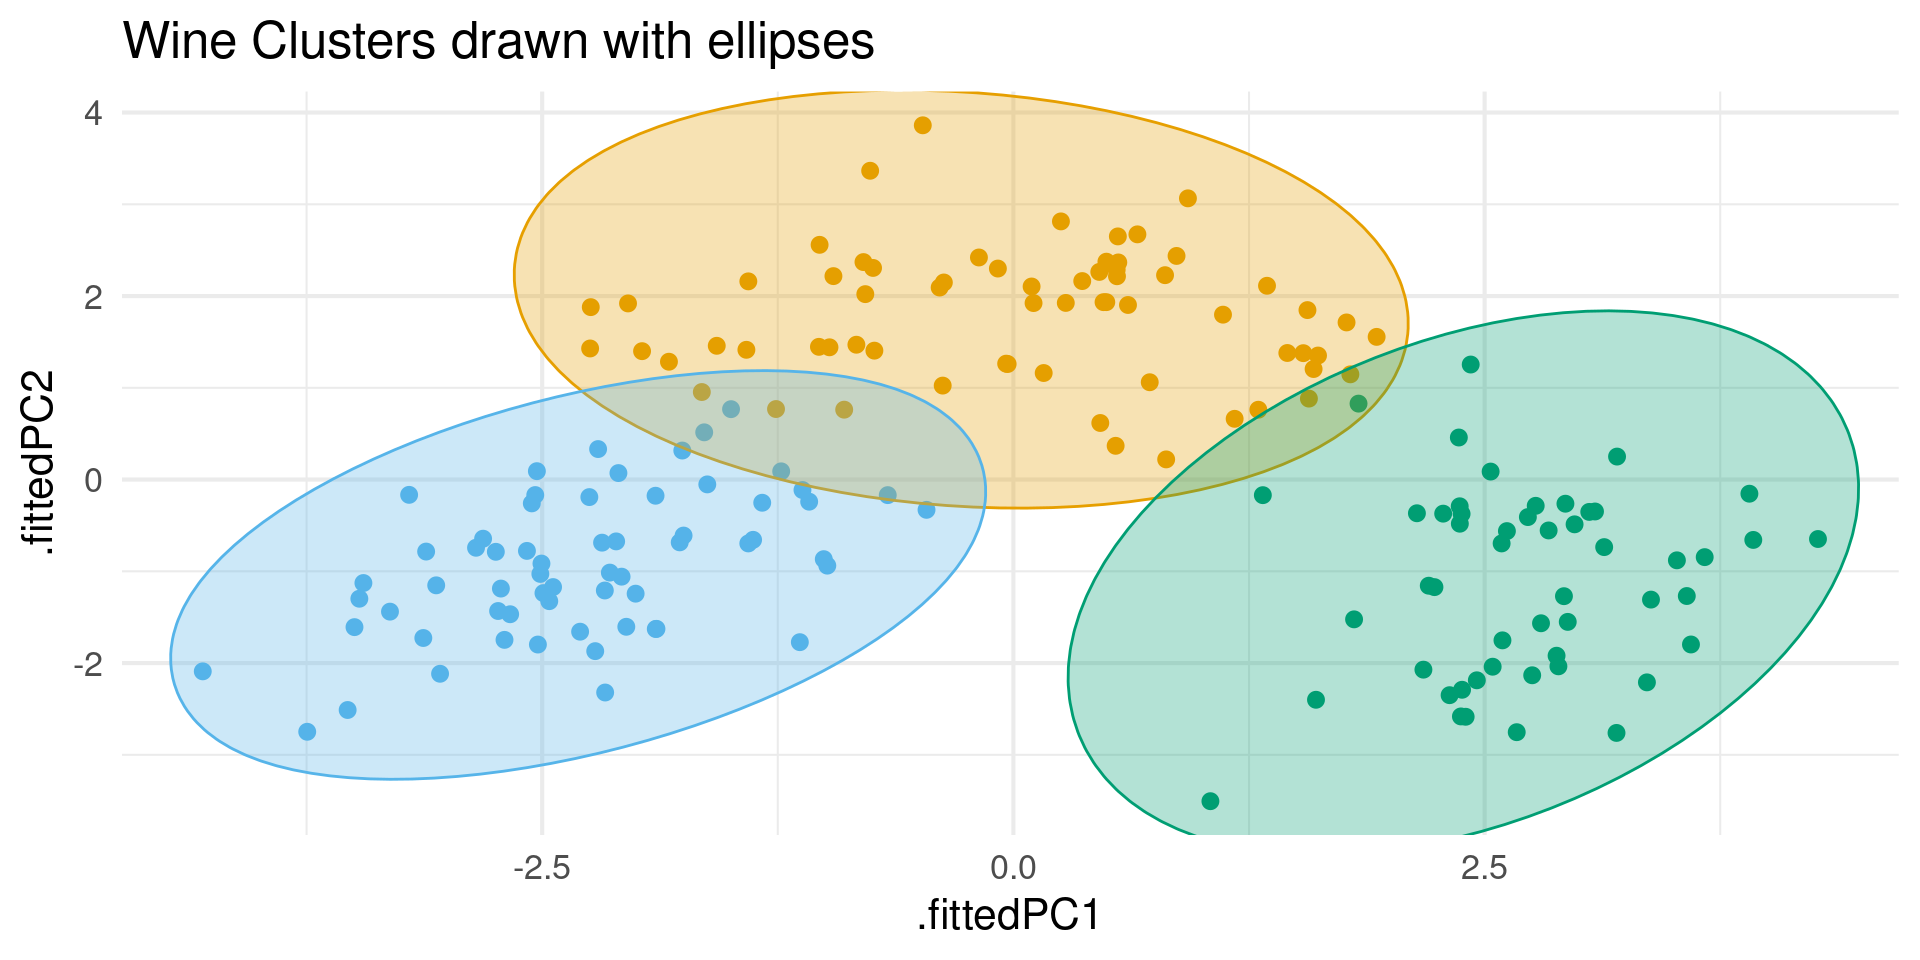
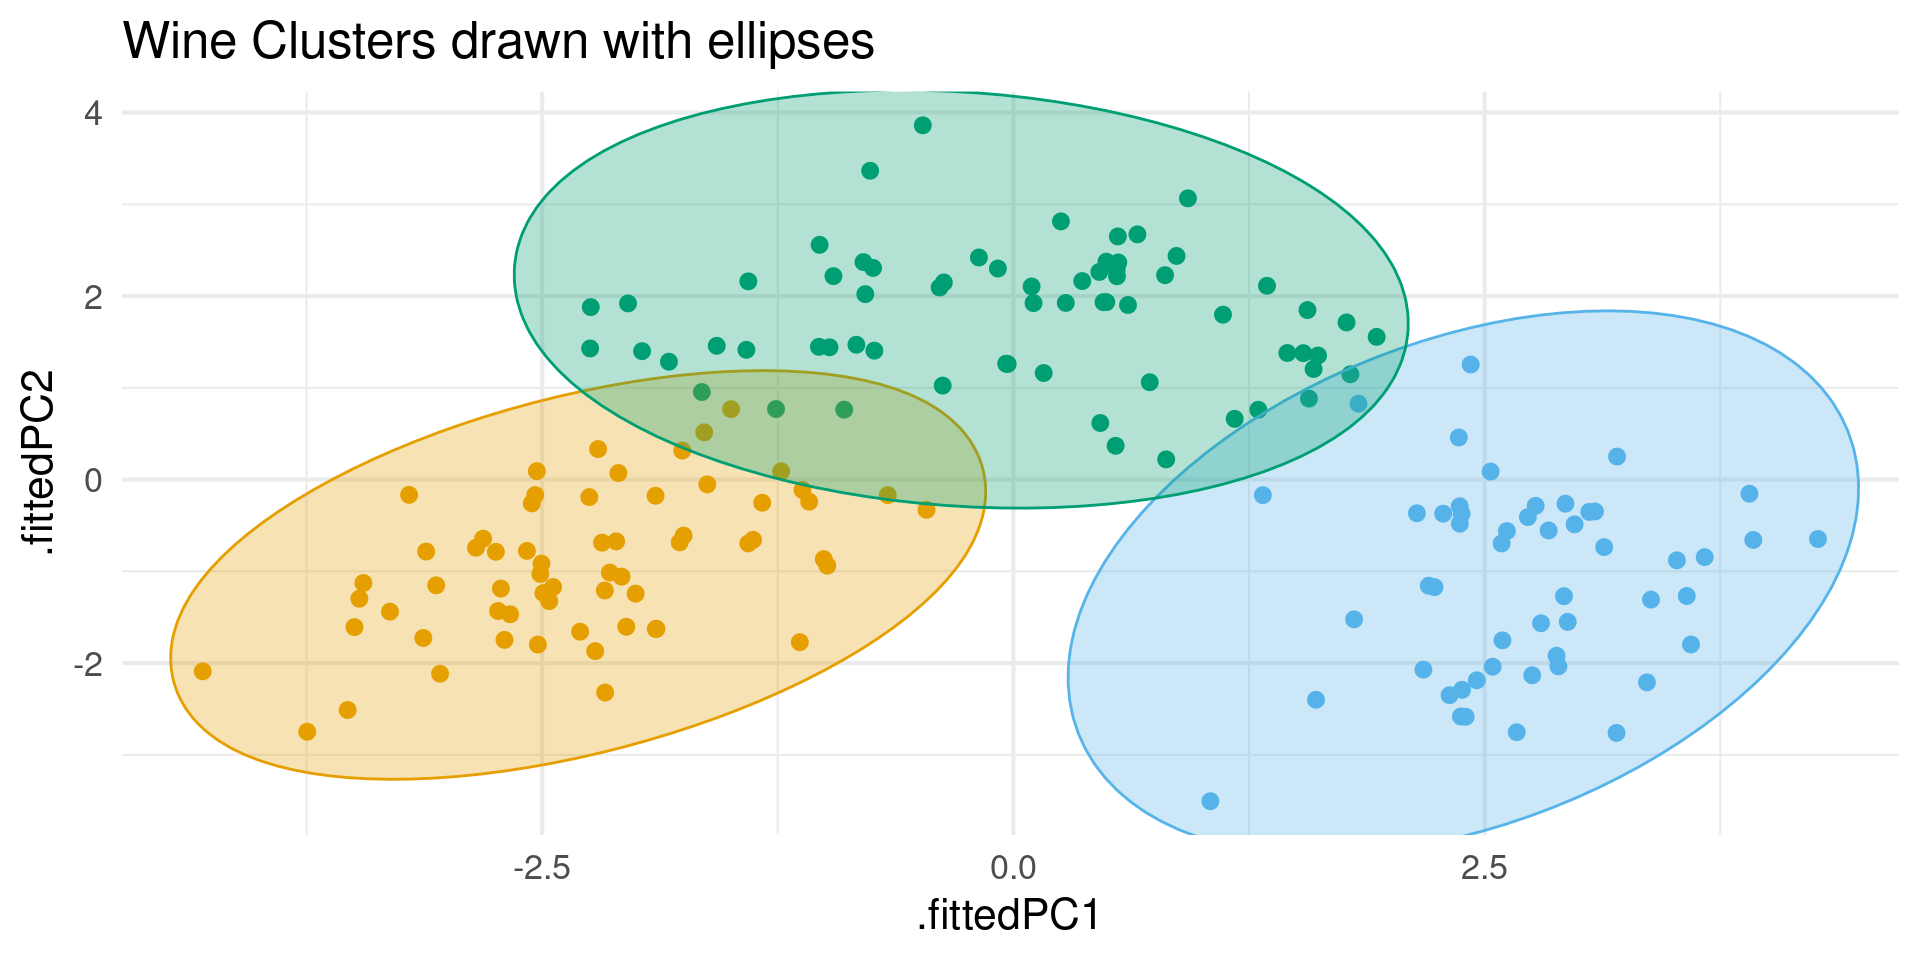
Built site for gh-pages

diff --git a/meetups/meetup-11/meetup-11.html b/meetups/meetup-11/meetup-11.html
@@ -411,15 +411,19 @@ George I. Hagstrom
 <li>Last Data Story will be on Shiny Apps</li>
 <li>Talking about clustering today</li>
 </ul>
-<!-- TODO Fall 2026: Spring 2025 event announcement - swap in a current
-     event card before the meetup.
-
-## NY Open Statistical Computing Meetup {.stretch}
-
-
-  ![](April_2025_Meetup_Card.png)
--->
 </section>
+<section id="tomorrow-ny-open-statistical-programming-meetup" class="slide level2">
+<h2>Tomorrow! NY Open Statistical Programming Meetup</h2>
+<ul>
+<li>Tuesday, November 10th, 6:30-8:30+</li>
+<li>Great Networking/Learning Opportunity</li>
+</ul>
+
+<img data-src="November_2026_Meetup_Card.png" class="r-stretch"></section>
+<section id="november-19th" class="slide level2">
+<h2>November 19th!</h2>
+
+<img data-src="Nov2026Seminar.png" class="r-stretch"></section>
 <section id="clustering-and-dim.-reduction" class="slide level2 smaller">
 <h2>Clustering and Dim. Reduction</h2>
 <ul>
@@ -661,31 +665,31 @@ George I. Hagstrom
 <span id="cb1-5"><a></a></span>
 <span id="cb1-6"><a></a>wine_clusters</span></code><button title="Copy to Clipboard" class="code-copy-button"><i class="bi"></i></button></pre></div>
 <div class="cell-output cell-output-stdout">
-<pre><code>K-means clustering with 3 clusters of sizes 62, 65, 51
+<pre><code>K-means clustering with 3 clusters of sizes 51, 62, 65
 
 Cluster means:
    .fittedPC1 .fittedPC2   .fittedPC3  .fittedPC4  .fittedPC5  .fittedPC6
-1 -2.26979079 -0.9294322  0.001523733 -0.13511700  0.13453261 -0.21766922
-2  0.03685265  1.7672542  0.185615130  0.08001400 -0.07067870  0.12944063
-3  2.71238444 -1.1224849 -0.238420685  0.06228125 -0.07346875  0.09964414
+1  2.71238444 -1.1224849 -0.238420685  0.06228125 -0.07346875  0.09964414
+2 -2.26979079 -0.9294322  0.001523733 -0.13511700  0.13453261 -0.21766922
+3  0.03685265  1.7672542  0.185615130  0.08001400 -0.07067870  0.12944063
     .fittedPC7   .fittedPC8  .fittedPC9 .fittedPC10  .fittedPC11  .fittedPC12
-1  0.051963343  0.024894027  0.05014407 -0.07446923 -0.021230820 -0.007417378
-2 -0.002320739 -0.017964647 -0.03216049  0.02293882  0.013900922  0.004371673
-3 -0.060213318 -0.007367207 -0.01997059  0.06129547  0.008093155  0.003445464
+1 -0.060213318 -0.007367207 -0.01997059  0.06129547  0.008093155  0.003445464
+2  0.051963343  0.024894027  0.05014407 -0.07446923 -0.021230820 -0.007417378
+3 -0.002320739 -0.017964647 -0.03216049  0.02293882  0.013900922  0.004371673
    .fittedPC13
-1 -0.050476861
-2  0.008595707
-3  0.050408713
+1  0.050408713
+2 -0.050476861
+3  0.008595707
 
 Clustering vector:
-  [1] 1 1 1 1 1 1 1 1 1 1 1 1 1 1 1 1 1 1 1 1 1 1 1 1 1 1 1 1 1 1 1 1 1 1 1 1 1
- [38] 1 1 1 1 1 1 1 1 1 1 1 1 1 1 1 1 1 1 1 1 1 1 2 2 3 2 2 2 2 2 2 2 2 2 2 2 1
- [75] 2 2 2 2 2 2 2 2 2 3 2 2 2 2 2 2 2 2 2 2 2 1 2 2 2 2 2 2 2 2 2 2 2 2 2 2 2
-[112] 2 2 2 2 2 2 2 3 2 2 1 2 2 2 2 2 2 2 2 3 3 3 3 3 3 3 3 3 3 3 3 3 3 3 3 3 3
-[149] 3 3 3 3 3 3 3 3 3 3 3 3 3 3 3 3 3 3 3 3 3 3 3 3 3 3 3 3 3 3
+  [1] 2 2 2 2 2 2 2 2 2 2 2 2 2 2 2 2 2 2 2 2 2 2 2 2 2 2 2 2 2 2 2 2 2 2 2 2 2
+ [38] 2 2 2 2 2 2 2 2 2 2 2 2 2 2 2 2 2 2 2 2 2 2 3 3 1 3 3 3 3 3 3 3 3 3 3 3 2
+ [75] 3 3 3 3 3 3 3 3 3 1 3 3 3 3 3 3 3 3 3 3 3 2 3 3 3 3 3 3 3 3 3 3 3 3 3 3 3
+[112] 3 3 3 3 3 3 3 1 3 3 2 3 3 3 3 3 3 3 3 1 1 1 1 1 1 1 1 1 1 1 1 1 1 1 1 1 1
+[149] 1 1 1 1 1 1 1 1 1 1 1 1 1 1 1 1 1 1 1 1 1 1 1 1 1 1 1 1 1 1
 
 Within cluster sum of squares by cluster:
-[1] 385.6983 558.6971 326.3537
+[1] 326.3537 385.6983 558.6971
  (between_SS / total_SS =  44.8 %)
 
 Available components:
@@ -712,11 +716,11 @@ Available components:
 <div class="cell">
 <div class="sourceCode cell-code" id="cb3"><pre class="sourceCode numberSource r number-lines code-with-copy"><code class="sourceCode r"><span id="cb3-1"><a></a>wine_clusters<span class="sc">$</span>cluster </span></code><button title="Copy to Clipboard" class="code-copy-button"><i class="bi"></i></button></pre></div>
 <div class="cell-output cell-output-stdout">
-<pre><code>  [1] 1 1 1 1 1 1 1 1 1 1 1 1 1 1 1 1 1 1 1 1 1 1 1 1 1 1 1 1 1 1 1 1 1 1 1 1 1
- [38] 1 1 1 1 1 1 1 1 1 1 1 1 1 1 1 1 1 1 1 1 1 1 2 2 3 2 2 2 2 2 2 2 2 2 2 2 1
- [75] 2 2 2 2 2 2 2 2 2 3 2 2 2 2 2 2 2 2 2 2 2 1 2 2 2 2 2 2 2 2 2 2 2 2 2 2 2
-[112] 2 2 2 2 2 2 2 3 2 2 1 2 2 2 2 2 2 2 2 3 3 3 3 3 3 3 3 3 3 3 3 3 3 3 3 3 3
-[149] 3 3 3 3 3 3 3 3 3 3 3 3 3 3 3 3 3 3 3 3 3 3 3 3 3 3 3 3 3 3</code></pre>
+<pre><code>  [1] 2 2 2 2 2 2 2 2 2 2 2 2 2 2 2 2 2 2 2 2 2 2 2 2 2 2 2 2 2 2 2 2 2 2 2 2 2
+ [38] 2 2 2 2 2 2 2 2 2 2 2 2 2 2 2 2 2 2 2 2 2 2 3 3 1 3 3 3 3 3 3 3 3 3 3 3 2
+ [75] 3 3 3 3 3 3 3 3 3 1 3 3 3 3 3 3 3 3 3 3 3 2 3 3 3 3 3 3 3 3 3 3 3 3 3 3 3
+[112] 3 3 3 3 3 3 3 1 3 3 2 3 3 3 3 3 3 3 3 1 1 1 1 1 1 1 1 1 1 1 1 1 1 1 1 1 1
+[149] 1 1 1 1 1 1 1 1 1 1 1 1 1 1 1 1 1 1 1 1 1 1 1 1 1 1 1 1 1 1</code></pre>
 </div>
 </div>
 </section>
@@ -729,17 +733,17 @@ Available components:
 <div class="sourceCode cell-code" id="cb5"><pre class="sourceCode numberSource r number-lines code-with-copy"><code class="sourceCode r"><span id="cb5-1"><a></a>wine_clusters<span class="sc">$</span>centers</span></code><button title="Copy to Clipboard" class="code-copy-button"><i class="bi"></i></button></pre></div>
 <div class="cell-output cell-output-stdout">
 <pre><code>   .fittedPC1 .fittedPC2   .fittedPC3  .fittedPC4  .fittedPC5  .fittedPC6
-1 -2.26979079 -0.9294322  0.001523733 -0.13511700  0.13453261 -0.21766922
-2  0.03685265  1.7672542  0.185615130  0.08001400 -0.07067870  0.12944063
-3  2.71238444 -1.1224849 -0.238420685  0.06228125 -0.07346875  0.09964414
+1  2.71238444 -1.1224849 -0.238420685  0.06228125 -0.07346875  0.09964414
+2 -2.26979079 -0.9294322  0.001523733 -0.13511700  0.13453261 -0.21766922
+3  0.03685265  1.7672542  0.185615130  0.08001400 -0.07067870  0.12944063
     .fittedPC7   .fittedPC8  .fittedPC9 .fittedPC10  .fittedPC11  .fittedPC12
-1  0.051963343  0.024894027  0.05014407 -0.07446923 -0.021230820 -0.007417378
-2 -0.002320739 -0.017964647 -0.03216049  0.02293882  0.013900922  0.004371673
-3 -0.060213318 -0.007367207 -0.01997059  0.06129547  0.008093155  0.003445464
+1 -0.060213318 -0.007367207 -0.01997059  0.06129547  0.008093155  0.003445464
+2  0.051963343  0.024894027  0.05014407 -0.07446923 -0.021230820 -0.007417378
+3 -0.002320739 -0.017964647 -0.03216049  0.02293882  0.013900922  0.004371673
    .fittedPC13
-1 -0.050476861
-2  0.008595707
-3  0.050408713</code></pre>
+1  0.050408713
+2 -0.050476861
+3  0.008595707</code></pre>
 </div>
 </div>
 </section>
@@ -752,17 +756,17 @@ Available components:
 <div class="sourceCode cell-code" id="cb7"><pre class="sourceCode numberSource r number-lines code-with-copy"><code class="sourceCode r"><span id="cb7-1"><a></a>wine_clusters<span class="sc">$</span>centers</span></code><button title="Copy to Clipboard" class="code-copy-button"><i class="bi"></i></button></pre></div>
 <div class="cell-output cell-output-stdout">
 <pre><code>   .fittedPC1 .fittedPC2   .fittedPC3  .fittedPC4  .fittedPC5  .fittedPC6
-1 -2.26979079 -0.9294322  0.001523733 -0.13511700  0.13453261 -0.21766922
-2  0.03685265  1.7672542  0.185615130  0.08001400 -0.07067870  0.12944063
-3  2.71238444 -1.1224849 -0.238420685  0.06228125 -0.07346875  0.09964414
+1  2.71238444 -1.1224849 -0.238420685  0.06228125 -0.07346875  0.09964414
+2 -2.26979079 -0.9294322  0.001523733 -0.13511700  0.13453261 -0.21766922
+3  0.03685265  1.7672542  0.185615130  0.08001400 -0.07067870  0.12944063
     .fittedPC7   .fittedPC8  .fittedPC9 .fittedPC10  .fittedPC11  .fittedPC12
-1  0.051963343  0.024894027  0.05014407 -0.07446923 -0.021230820 -0.007417378
-2 -0.002320739 -0.017964647 -0.03216049  0.02293882  0.013900922  0.004371673
-3 -0.060213318 -0.007367207 -0.01997059  0.06129547  0.008093155  0.003445464
+1 -0.060213318 -0.007367207 -0.01997059  0.06129547  0.008093155  0.003445464
+2  0.051963343  0.024894027  0.05014407 -0.07446923 -0.021230820 -0.007417378
+3 -0.002320739 -0.017964647 -0.03216049  0.02293882  0.013900922  0.004371673
    .fittedPC13
-1 -0.050476861
-2  0.008595707
-3  0.050408713</code></pre>
+1  0.050408713
+2 -0.050476861
+3  0.008595707</code></pre>
 </div>
 </div>
 </section>
@@ -779,7 +783,7 @@ Available components:
 <div class="cell">
 <div class="sourceCode cell-code" id="cb9"><pre class="sourceCode numberSource r number-lines code-with-copy"><code class="sourceCode r"><span id="cb9-1"><a></a>wine_clusters<span class="sc">$</span>withinss</span></code><button title="Copy to Clipboard" class="code-copy-button"><i class="bi"></i></button></pre></div>
 <div class="cell-output cell-output-stdout">
-<pre><code>[1] 385.6983 558.6971 326.3537</code></pre>
+<pre><code>[1] 326.3537 385.6983 558.6971</code></pre>
 </div>
 <div class="sourceCode cell-code" id="cb11"><pre class="sourceCode numberSource r number-lines code-with-copy"><code class="sourceCode r"><span id="cb11-1"><a></a>wine_clusters<span class="sc">$</span>totss</span></code><button title="Copy to Clipboard" class="code-copy-button"><i class="bi"></i></button></pre></div>
 <div class="cell-output cell-output-stdout">

diff --git a/posts/2026-11-09-Week-11-Clustering.html b/posts/2026-11-09-Week-11-Clustering.html
@@ -365,7 +365,7 @@ ul.task-list li input[type="checkbox"] {
 <p>Hello class and welcome to Week 11!</p>
 <p>This week we will cover clustering, which is an important partner to dimensionality reduction tools like PCA. We will focus on just one method, k-means, and show how to implement in R and use visualizations to interpret the results.</p>
 <p><a href="../assignments/stories/story6.html">Data Story 6</a> is now available. It asks you to do something called a customer segmentation analysis, which is to look at a lot of customer behavior data and try to group the customers into discrete categories based on the sorts of items that they purchase (as well as when and how often they purchase). The data comes from a kaggle competition run by instacart several years ago, though the aim of the competition was more about prediction future customer behavior.&nbsp;</p>
-<p>Data Story 6 will be due the week after spring break ends, Sunday at midnight.</p>
+<p>Data Story 6 will be due Sunday, November 22nd at midnight.</p>
 <p>Check out <a href="../modules/module11.html">module 11</a> for the reading assignments and other details.</p>
 <p>Thanks,</p>
 <p>Sincerely,<br>

diff --git a/index.html b/index.html
@@ -407,7 +407,7 @@ window.Quarto = {
 
 <div class="quarto-listing quarto-listing-container-default" id="listing-listing">
 <div class="list quarto-listing-default">
-<div class="quarto-post image-right" data-index="0" data-listing-date-sort="1794200400000" data-listing-file-modified-sort="1794196943974" data-listing-date-modified-sort="NaN" data-listing-reading-time-sort="1" data-listing-word-count-sort="167">
+<div class="quarto-post image-right" data-index="0" data-listing-date-sort="1794200400000" data-listing-file-modified-sort="1794247373144" data-listing-date-modified-sort="NaN" data-listing-reading-time-sort="1" data-listing-word-count-sort="162">
 <div class="thumbnail">
 <p><a href="./posts/2026-11-09-Week-11-Clustering.html" class="no-external"></a></p><a href="./posts/2026-11-09-Week-11-Clustering.html" class="no-external">
 <p><img loading="lazy" src="./images/week11.png" class="thumbnail-image"></p>
